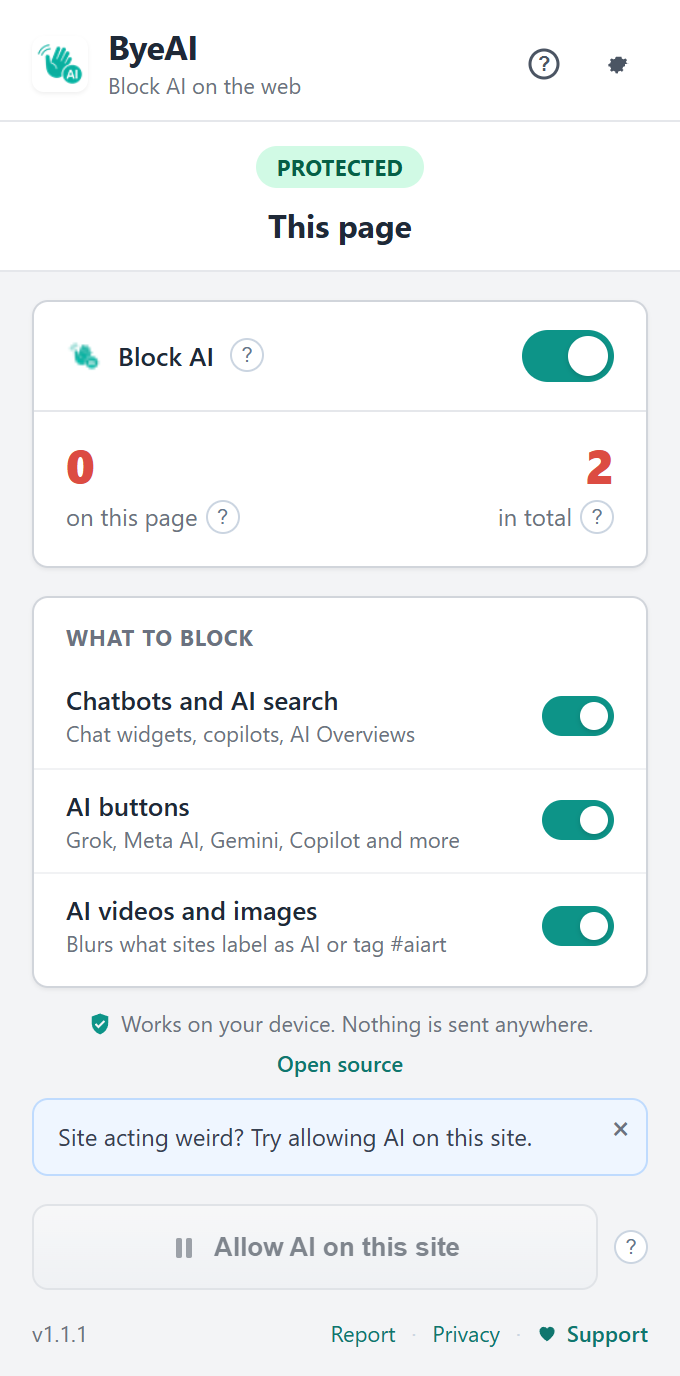
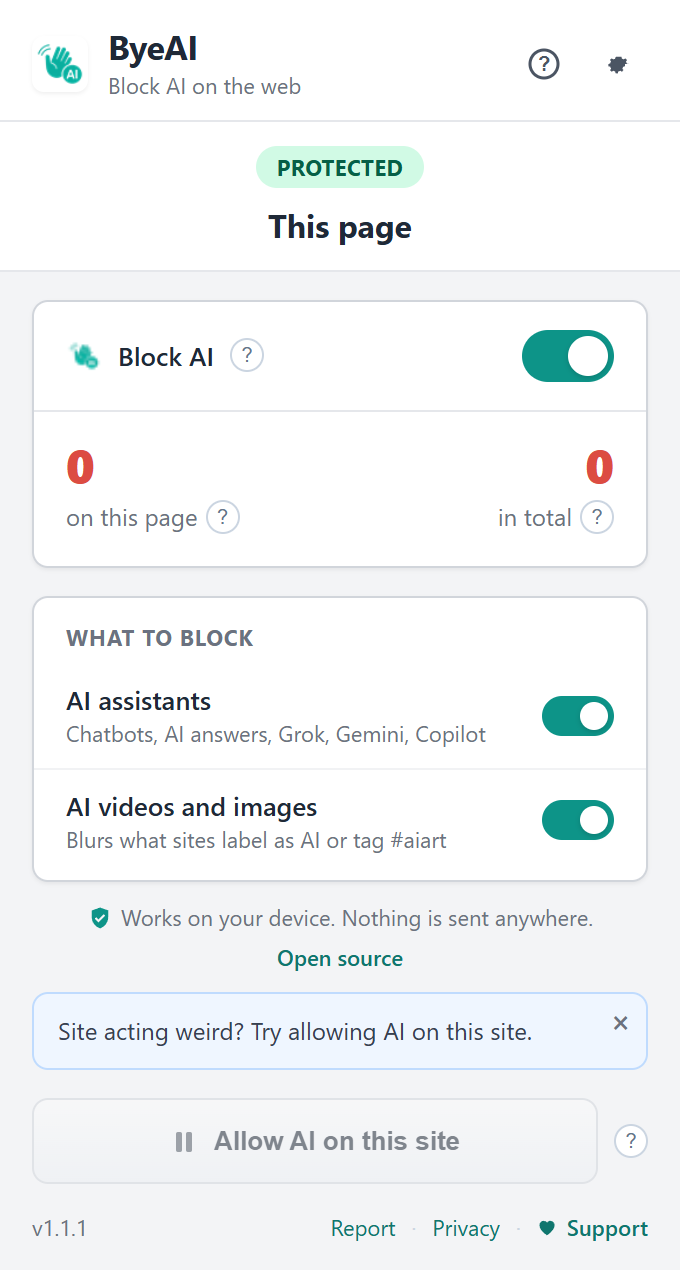
Two switches: AI buttons join AI assistants; real YouTube shot in README

diff --git a/extension/popup/popup.html b/extension/popup/popup.html
@@ -70,23 +70,12 @@
       <ul class="feature-list">
         <li class="feature" data-feature="widgets">
           <div class="feature-text">
-            <span class="feature-name" data-i18n="featureWidgets">Chatbots and AI search</span>
-            <span class="feature-desc" data-i18n="featureWidgetsDesc">Chat widgets, copilots, AI Overviews</span>
+            <span class="feature-name" data-i18n="featureWidgets">AI assistants</span>
+            <span class="feature-desc" data-i18n="featureWidgetsDesc">Chatbots, AI answers, Grok, Gemini, Copilot</span>
           </div>
           <span class="feature-count" hidden>0</span>
           <label class="toggle toggle-sm">
-            <input type="checkbox" data-i18n-attr="aria-label:featureWidgets" aria-label="Chatbots and AI search" />
-            <span class="toggle-track"></span>
-          </label>
-        </li>
-        <li class="feature" data-feature="buttons">
-          <div class="feature-text">
-            <span class="feature-name" data-i18n="featureButtons">AI buttons</span>
-            <span class="feature-desc" data-i18n="featureButtonsDesc">Grok, Meta AI, Gemini, Copilot and more</span>
-          </div>
-          <span class="feature-count" hidden>0</span>
-          <label class="toggle toggle-sm">
-            <input type="checkbox" data-i18n-attr="aria-label:featureButtons" aria-label="AI buttons" />
+            <input type="checkbox" data-i18n-attr="aria-label:featureWidgets" aria-label="AI assistants" />
             <span class="toggle-track"></span>
           </label>
         </li>

diff --git a/extension/content/byeai-flag.js b/extension/content/byeai-flag.js
@@ -4,7 +4,7 @@
  *
  * Flags on <html>:
  *   data-byeai-active   widgets + search AI (used by the cosmetic CSS)
- *   data-byeai-buttons  AI buttons inside apps
+ *   data-byeai-buttons  AI buttons inside apps (same switch as widgets)
  *   data-byeai-labeled  AI videos and images (site labels + AI hashtags)
  *
  * Defaults are pessimistic so AI does not flash in while storage loads.
@@ -14,7 +14,7 @@
 (function () {
   'use strict';
 
-  const FEATURE_DEFAULTS = { widgets: true, buttons: true, labeled: true };
+  const FEATURE_DEFAULTS = { widgets: true, labeled: true };
   const HIDE_PROPS = ['display', 'visibility', 'pointer-events', 'height', 'overflow'];
   const host = location.hostname.replace(/^www\./, '');
   const listeners = [];
@@ -45,7 +45,8 @@
     const on = Boolean(data.enabled) && !allowed;
 
     state.widgets = on && features.widgets;
-    state.buttons = on && features.buttons;
+    // One "AI assistants" switch covers widgets, search AI and AI buttons.
+    state.buttons = on && features.widgets;
     state.labeled = on && features.labeled;
     state.ready = true;
 

diff --git a/extension/background/service-worker.js b/extension/background/service-worker.js
@@ -6,7 +6,9 @@ const WHITELIST_RULE_BASE = 9000000;
 const BLOCK_RESOURCE_TYPES = ['script', 'sub_frame', 'xmlhttprequest', 'websocket', 'other'];
 
 const CATEGORIES = ['widgets', 'buttons', 'labeled'];
-const FEATURE_DEFAULTS = { widgets: true, buttons: true, labeled: true };
+// Switches in the popup. Counts still use the finer CATEGORIES.
+const FEATURES = ['widgets', 'labeled'];
+const FEATURE_DEFAULTS = { widgets: true, labeled: true };
 
 /** @type {Map<number, { page: number, seen: Set<string>, cats: Record<string, number> }>} */
 const tabStats = new Map();
@@ -292,7 +294,7 @@ async function toggleEnabled(enabled) {
 }
 
 async function setFeature(name, on) {
-  if (!CATEGORIES.includes(name)) return;
+  if (!FEATURES.includes(name)) return;
   const settings = await getSettings();
   const features = { ...settings.features, [name]: Boolean(on) };
   await saveSettings({ features });

diff --git a/extension/popup/popup.js b/extension/popup/popup.js
@@ -101,7 +101,8 @@ function renderFeatures(state) {
     const name = row.dataset.feature;
     row.querySelector('input').checked = Boolean(features[name]);
     const count = row.querySelector('.feature-count');
-    const n = counts[name] || 0;
+    // The assistants row also covers hidden AI buttons.
+    const n = (counts[name] || 0) + (name === 'widgets' ? counts.buttons || 0 : 0);
     count.textContent = String(n);
     count.hidden = n === 0;
   });

diff --git a/marketing/store-listing.md b/marketing/store-listing.md
@@ -19,7 +19,7 @@ What it does
 • Blurs videos and pictures that YouTube, TikTok, Instagram, Facebook and others mark as made with AI. Click one if you still want to see it
 
 Easy to use
-Three switches, that's it. Turn off what you don't need. If a site acts strange, press "Allow AI on this site" and it works like before.
+Two switches, that's it. Turn off what you don't need. If a site acts strange, press "Allow AI on this site" and it works like before.
 
 Private
 ByeAI works on your own device. It doesn't collect, send or sell anything, and you don't need an account. It's free and open source, so anyone can check how it works.
@@ -43,7 +43,7 @@ Mitä se tekee
 • Sumentaa videot ja kuvat, jotka YouTube, TikTok, Instagram, Facebook ja muut ovat merkinneet tekoälyllä tehdyiksi. Klikkaa, jos haluat silti nähdä
 
 Helppo käyttää
-Vain kolme valintaa. Laita pois se, mitä et tarvitse. Jos sivusto toimii oudosti, paina "Salli tekoäly tällä sivustolla", niin kaikki toimii kuten ennenkin.
+Vain kaksi valintaa. Laita pois se, mitä et tarvitse. Jos sivusto toimii oudosti, paina "Salli tekoäly tällä sivustolla", niin kaikki toimii kuten ennenkin.
 
 Yksityinen
 ByeAI toimii omalla laitteellasi. Se ei kerää, lähetä eikä myy mitään, eikä tiliä tarvita. Se on ilmainen ja avointa lähdekoodia, joten kuka tahansa voi tarkistaa, miten se toimii.
@@ -52,4 +52,4 @@ Tehty Suomessa, LAFU.
 
 ## Screenshots
 
-Use `docs/img/popup.png` and `docs/img/before-after.png`. The store wants 1280x800, so place them on a plain background.
+Use `docs/img/popup.png` and `docs/img/youtube.png`. The store wants 1280x800, so place them on a plain background.

diff --git a/README.md b/README.md
@@ -8,16 +8,15 @@ Block AI on the web. ByeAI stops chat widgets, copilots, AI Overviews and AI but
 
 Like an ad blocker, but for AI.
 
-<img src="docs/img/before-after.png" width="760" alt="The same video feed without and with ByeAI: AI videos are blurred and say why">
+<img src="docs/img/youtube.png" width="760" alt="A YouTube video that the site labels as AI, blurred by ByeAI with Click to show">
 
 ## What it blocks
 
-<img src="docs/img/popup.png" width="240" align="right" alt="ByeAI popup with three switches">
+<img src="docs/img/popup.png" width="240" align="right" alt="ByeAI popup with two switches">
 
 | Switch | What it does |
 | --- | --- |
-| Chatbots and AI search | Blocks chat widgets and copilots at the network level, hides Google AI Overviews, Bing Copilot, DuckDuckGo and Brave AI answers |
-| AI buttons | Hides Grok, Meta AI, Gemini, Copilot, Rufus, "Help me write" and similar |
+| AI assistants | Blocks chat widgets and copilots at the network level, hides Google AI Overviews, Bing Copilot, DuckDuckGo and Brave AI answers, and AI buttons like Grok, Meta AI, Gemini, Copilot, Rufus and "Help me write" |
 | AI videos and images | Blurs posts and videos that YouTube, TikTok, Instagram, Facebook, Threads, Pinterest and LinkedIn label as AI, or that carry clear AI tags like #aiart or #midjourney. Click to show one |
 
 Any site can be allowed with one click.

diff --git a/CHANGELOG.md b/CHANGELOG.md
@@ -2,6 +2,7 @@
 
 ## 1.1.1 (2026-10-18)
 
+- Down to two switches: "AI assistants" (chatbots, AI search answers and AI buttons) and "AI videos and images"
 - Strict mode is gone. Clear AI hashtags like #aiart and #midjourney are now part of "AI videos and images"
 - Broad tags like #ai are no longer matched, so news about AI stays visible
 - Blurred posts now say why: labeled by the site, or which tag matched
